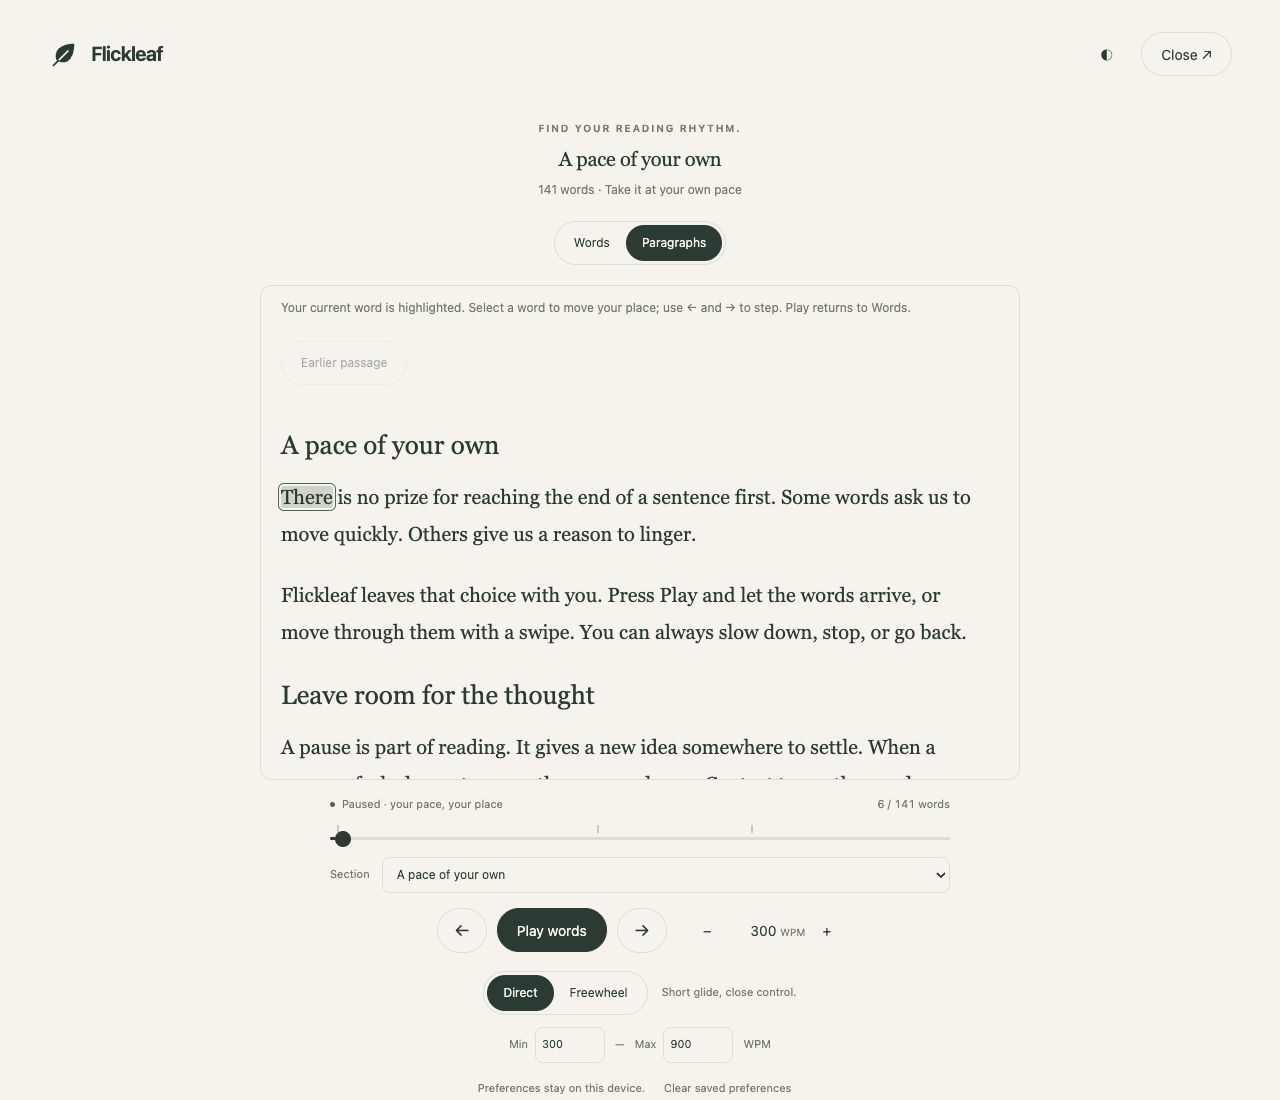
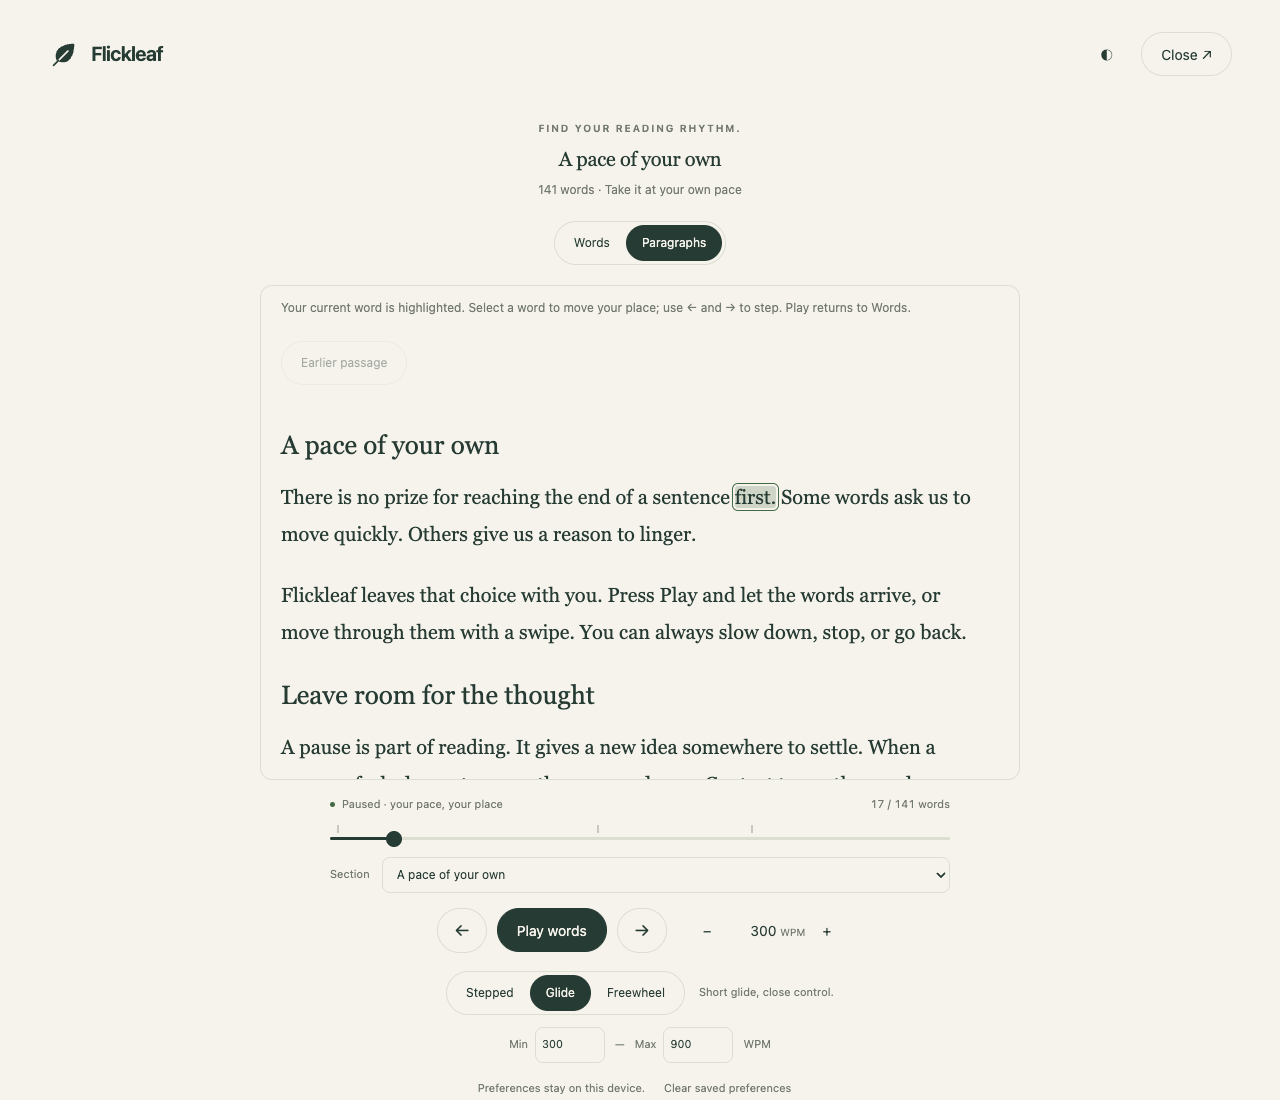
Refresh quick-start captures from the live 0.8.0 reader

diff --git a/docs/roadmap.md b/docs/roadmap.md
@@ -22,7 +22,7 @@ Agreed 25 September 2026; updated 29 September 2026.
 
 1. Finish Firefox store follow-through: 0.8.0 is approved and publicly listed (submitted 6 October via the scripted `npm run submit:firefox`). Verify the signed installation, refresh the listing description, release notes, and screenshots for 0.8.0, and address any later reviewer requests; follow with [Chrome submission](chrome-store.md). Safari signing and physical Apple-device testing remain pending.
 2. Validate bookmarks on physical devices and gather feedback before expanding to multiple saved places. Saving document text remains a separate, unimplemented feature requiring explicit choice.
-3. Recapture the quick-start screenshots, which still show 0.6.0, once the 0.8.0 web reader is published. Expand the illustrated contributor guide with a short recorded demo and actual extension screenshots.
+3. Expand the illustrated contributor guide with a short recorded demo and actual extension screenshots. The quick-start captures were refreshed from the live 0.8.0 web reader via `scripts/capture-quick-start.mjs`.
 4. Expand PDF cleanup only from representative documents and feedback; column/table reordering and OCR remain outside the current cleanup.
 5. Optional hold at sections: a toggle so arriving on a heading card pauses indefinitely until the reader scrolls, steps, or presses Play, replacing the timed section pause. Off by default; remembered with the other preferences. Suggested label **Hold at sections**, a quiet aria-pressed button beside the Section picker, since both appear only when headings exist. Implementation notes: stop in the engine when forward playback or momentum lands on a heading token, without re-triggering at the same index on resume; keep the quiet reading state while holding — a heading must not reveal the surrounding controls by pausing (today the dimmed `reading` state drops whenever the engine pauses, so holding needs its own state or an explicit exception); suggested status line "Holding at section · scroll to continue".
 6. Direction-change grace: when scroll input reverses direction, hold the current word briefly (a tunable ~300 ms) before motion continues, so the eye can re-anchor instead of the text immediately running backward. Engine-level, all scroll modes (Glide/Freewheel already brake first, so the grace applies once velocity crosses zero; Stepped applies it to the first reversed step). A behavior refinement, not a toggle; must not eat deliberate rapid back-and-forth corrections entirely — the reversed input still lands, it just waits out the grace. It matters most for a short reverse scroll: a nudge back of a word or two to re-read should settle there long enough to be read, not immediately run further backward.

diff --git a/docs/quick-start.md b/docs/quick-start.md
@@ -13,7 +13,7 @@
 
 ![Paragraph view with the current word highlighted](images/paragraphs.png)
 
-These are unretouched captures of the shared web reader, version 0.6.0, using Flickleaf’s built-in sample. They demonstrate the UI, not a signed extension installation.
+These are unretouched captures of the shared web reader, version 0.8.0, using Flickleaf’s built-in sample. They demonstrate the UI, not a signed extension installation.
 
 ## Bring your own text
 
